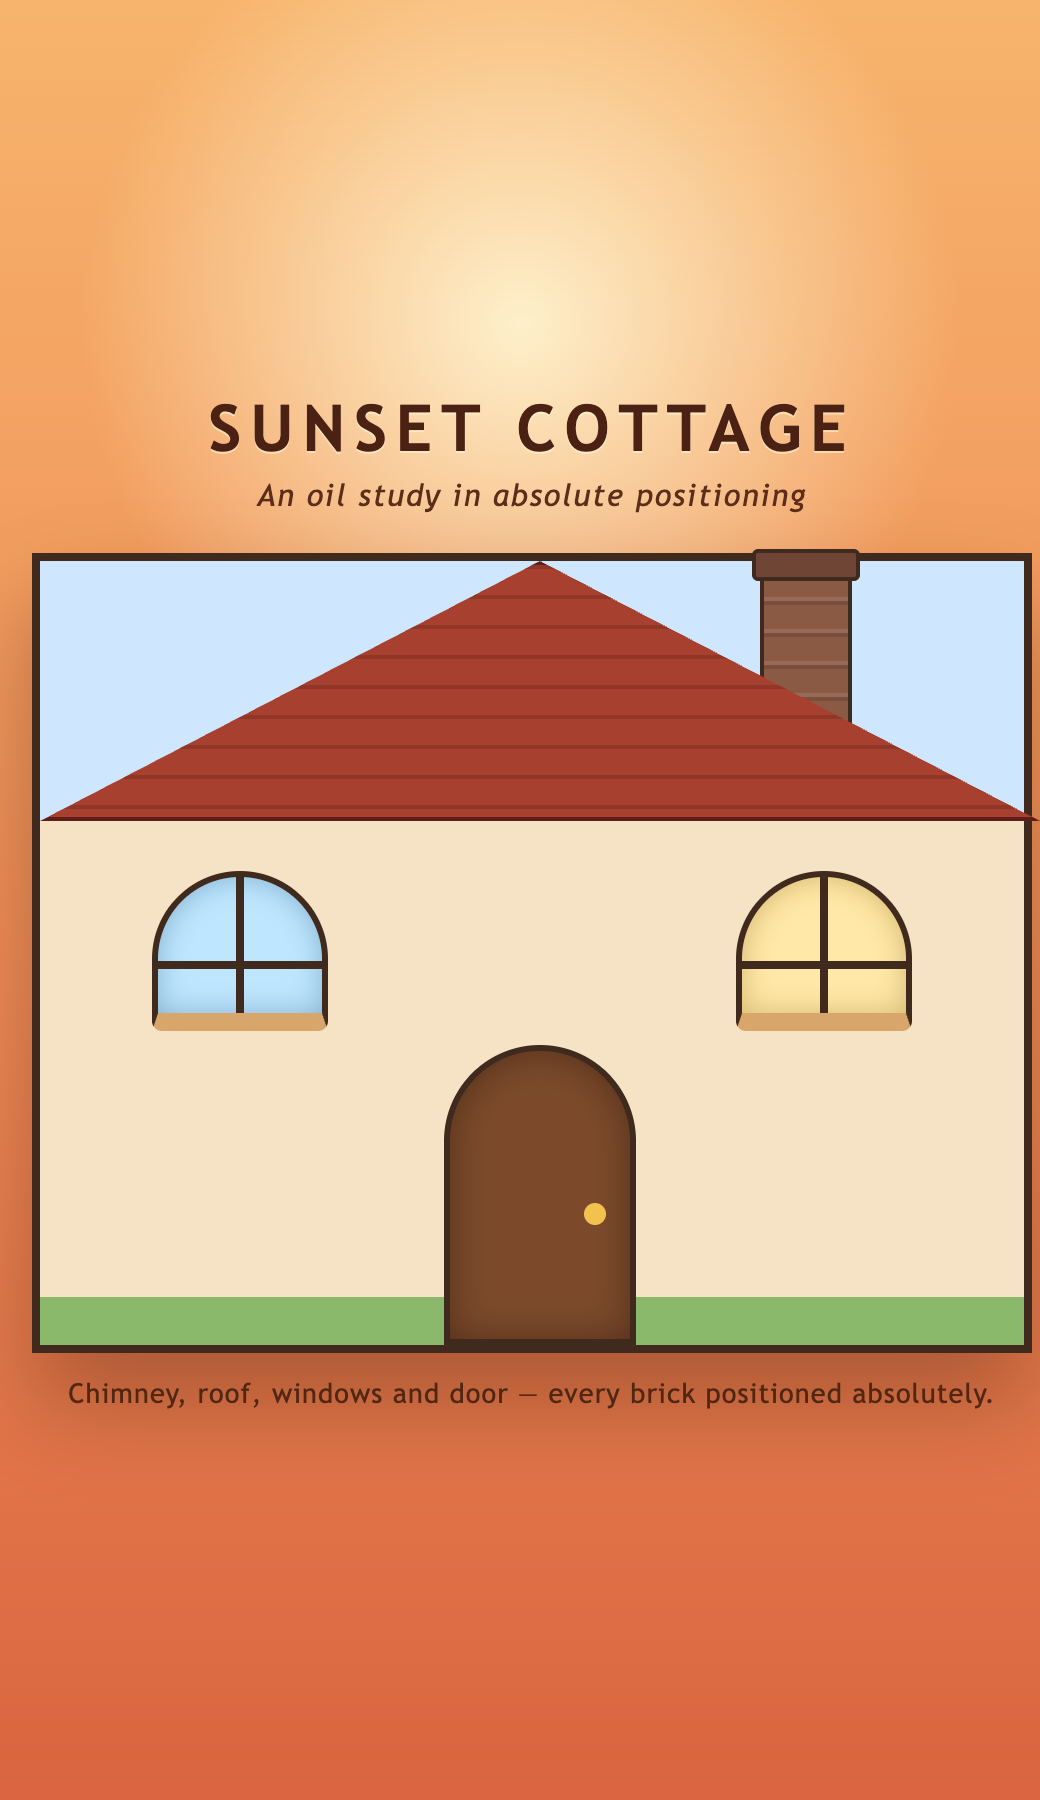
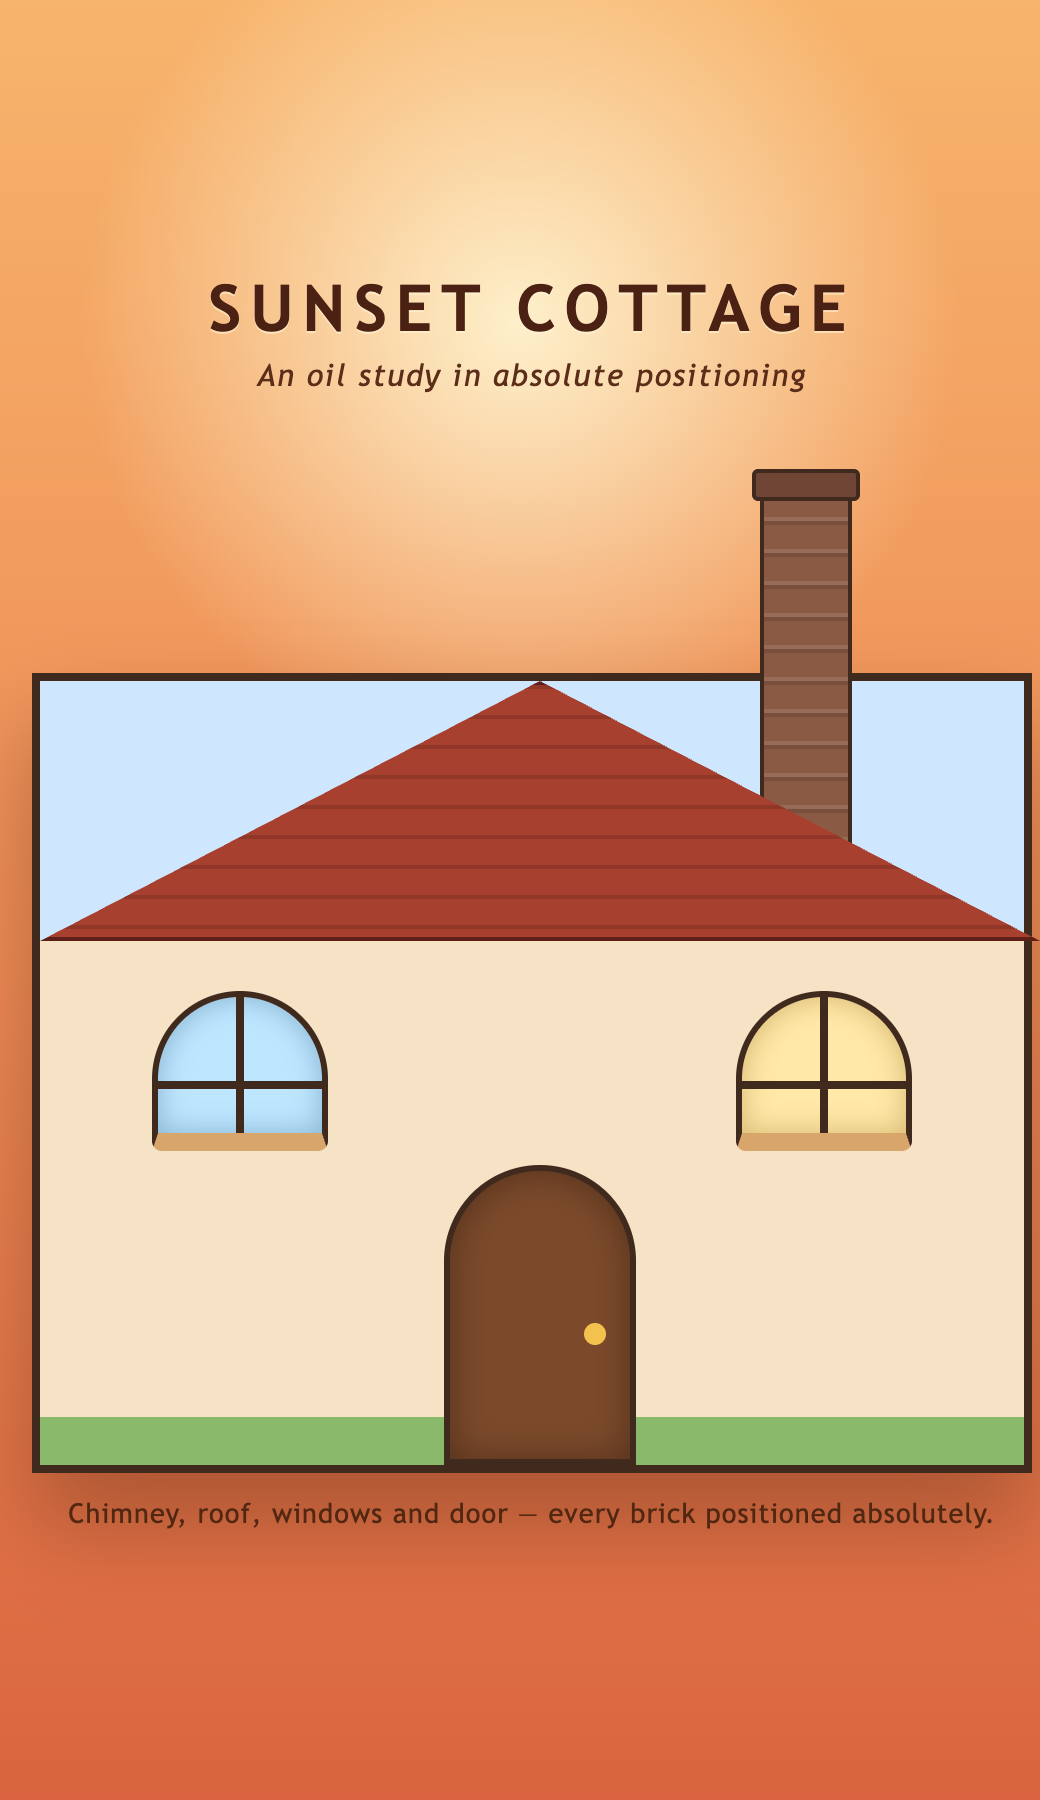
fix: task issues fixes of chimney and window borders

diff --git a/styles.css b/styles.css
@@ -4,7 +4,10 @@
    Layout contract (all numbers are px, measured inside the #house box):
      house ....... 500 x 400, border 4px  -> inner (padding) box 492 x 392
      roof ........ top 0, full width, 130 tall (gable clipped to a triangle)
-     chimney ..... top 0, on the right roof slope, z-index below the house
+     chimney ..... top -100, i.e. exactly -height (the lab pins top to -height),
+                   on the right roof slope, z-index below the house/roof; its
+                   shaft is continued downwards by ::after so it reads as
+                   passing behind the gable instead of floating above it
      windows ..... top 155 - 235, i.e. below the roof and above the door head
      door ........ bottom 0, 150 tall, 96 wide, centred
    ========================================================================== */
@@ -21,6 +24,9 @@ body {
     min-height: 100vh;
     display: flex;
     align-items: center;
+    /* the painting reserves room for the chimney above the house, so on short
+       screens fall back to start alignment instead of clipping the top */
+    align-items: safe center;
     justify-content: center;
     /* the house is a fixed 500px wide painting: on narrow screens fall back to
        start alignment so the overflow can be scrolled instead of clipped */
@@ -79,6 +85,9 @@ body {
     position: relative;
     width: 500px;
     height: 400px;
+    /* the chimney sits at top: -<its own height>, i.e. above the canvas, so
+       reserve that space here or it would paint over the title above */
+    margin-top: 120px;
     border: 4px solid #3f2a1d;
     background-color: #f6e3c5;
     background-image: linear-gradient(
@@ -93,22 +102,26 @@ body {
 }
 
 /* --------------------------------------------------------------------------
-   #chimney - tucked behind the house so only its cap clears the roof
+   #chimney - rises out of the right roof slope, z-index keeps it behind the
+   house/roof; top mirrors its own height because the lab asserts
+   top === -height, and ::after continues the shaft down behind the gable
    -------------------------------------------------------------------------- */
 #chimney {
-    position: absolute;
-    top: 0;
-    left: 360px;
-    width: 46px;
-    height: 120px;
-    border: 2px solid #3f2a1d;
-    background-color: #8a5a44;
-    background-image: repeating-linear-gradient(
+    /* declared once, inherited by ::after through the custom property */
+    --chimney-brick: repeating-linear-gradient(
             180deg,
             rgba(255, 255, 255, 0.10) 0, rgba(255, 255, 255, 0.10) 2px,
             rgba(0, 0, 0, 0.12) 2px, rgba(0, 0, 0, 0.12) 4px,
             rgba(0, 0, 0, 0) 4px, rgba(0, 0, 0, 0) 16px
     );
+    position: absolute;
+    top: -100px;
+    left: 360px;
+    width: 46px;
+    height: 100px;
+    border: 2px solid #3f2a1d;
+    background-color: #8a5a44;
+    background-image: var(--chimney-brick);
     z-index: -1;
 }
 
@@ -124,6 +137,25 @@ body {
     -moz-border-radius: 3px;
     border-radius: 3px;
     background-color: #6f4536;
+}
+
+/* the stack keeps going down behind the roof: the visible part ends where the
+   gable slope starts, and everything below is hidden by #roof (painted on top
+   of the negative z-index chimney) instead of showing a gap under the shaft */
+#chimney::after {
+    content: "";
+    position: absolute;
+    top: 100%;
+    right: -2px;
+    left: -2px;
+    height: 130px;
+    -webkit-box-sizing: border-box;
+    -moz-box-sizing: border-box;
+    box-sizing: border-box;
+    border: 2px solid #3f2a1d;
+    border-top: 0;
+    background-color: #8a5a44;
+    background-image: var(--chimney-brick);
 }
 
 /* --------------------------------------------------------------------------
@@ -149,13 +181,22 @@ body {
 /* --------------------------------------------------------------------------
    #window-1 / #window-2 - arched cottage windows below the roof line
    -------------------------------------------------------------------------- */
+
+/* The shared frame lives in its own grouped rule on purpose: the lab reads the
+   window `border` from `#window-1, #window-2`, and the per-window rules below
+   only restate the sill longhands (a shorthand there would be overridden by
+   them and serialise back to an empty `border`). */
+#window-1,
+#window-2 {
+    border: 3px solid #3f2a1d;
+}
+
 #window-1 {
     position: absolute;
     top: 155px;
     left: 56px;
     width: 88px;
     height: 80px;
-    border: 3px solid #3f2a1d;
     border-bottom-width: 9px;
     border-bottom-color: #d8a56a;
     background-color: #bfe6ff;
@@ -171,7 +212,6 @@ body {
     right: 56px;
     width: 88px;
     height: 80px;
-    border: 3px solid #3f2a1d;
     border-bottom-width: 9px;
     border-bottom-color: #d8a56a;
     background-color: #ffe8a8;

diff --git a/README.md b/README.md
@@ -20,7 +20,7 @@ children. Everything else on the page is decoration:
 
 ```
 #house
-├── #chimney     behind the roof, only its cap shows above the slope
+├── #chimney     lifted above the top edge (top mirrors its height), z-index: -1
 ├── #roof        full width gable, clipped into a triangle, top: 0
 ├── #window-1    arched window on the left
 ├── #window-2    arched window on the right
@@ -33,14 +33,14 @@ All values are px. `#house` is `500 × 400` with a `4px` border, so its **paddin
 box** — the box absolutely positioned children are laid out against — is
 `492 × 392`.
 
-| Element     | Position                                    | Size     |
-| ----------- | ------------------------------------------- | -------- |
-| `#house`    | `position: relative`                        | 500 × 400 |
-| `#roof`     | `top: 0`, `left: 0`                          | 500 × 130 |
-| `#chimney`  | `top: 0`, `left: 360px`, `z-index: -1`       | 46 × 120 |
-| `#window-1` | `top: 155px`, `left: 56px`                   | 88 × 80  |
-| `#window-2` | `top: 155px`, `right: 56px`                  | 88 × 80  |
-| `#door`     | `bottom: 0`, `left: 202px`                   | 96 × 150 |
+| Element     | Position                                         | Size      |
+| ----------- | ------------------------------------------------ | --------- |
+| `#house`    | `position: relative`                             | 500 × 400 |
+| `#roof`     | `top: 0`, `left: 0`                               | 500 × 130 |
+| `#chimney`  | `top: -100px`, `left: 360px`, `z-index: -1`       | 46 × 100  |
+| `#window-1` | `top: 155px`, `left: 56px`                        | 88 × 80   |
+| `#window-2` | `top: 155px`, `right: 56px`                       | 88 × 80   |
+| `#door`     | `bottom: 0`, `left: 202px`                        | 96 × 150  |
 
 Why these numbers satisfy the user stories:
 
@@ -49,8 +49,20 @@ Why these numbers satisfy the user stories:
 - `235 ≤ 392 − 150/3 = 342` keeps both windows higher than a third of the door;
 - `left: 360` + `width: 46` = `406 ≤ 492` and `left: 202` + `width: 96` = `298`,
   so the chimney and the door stay inside the house borders;
+- the lab pins the chimney to the top of the house with
+  `assert.approximately(top, -height, 2)`, so `top` is **exactly `-height`**
+  (`-100`). That lifts the whole chimney above the canvas, which is why
+  `#chimney::after` repeats the brick shaft downwards: the repeated part is
+  painted behind `#roof` and only shows until the gable slope cuts it off;
 - `z-index: -1` on `#chimney` pushes it behind the house and roof, which is why
-  the cap is drawn with `#chimney::before` at `top: -8px`.
+  the cap is drawn with `#chimney::before` at `top: -8px`;
+- `#house` carries a `120px` top margin so the overhanging chimney has room
+  instead of painting over the title.
+
+The window frame lives in a **grouped** rule, `#window-1, #window-2 { border: … }`,
+because the lab looks the `border` up on that combined selector; the per-window
+rules only add the sill longhands (`border-bottom-width` / `border-bottom-color`),
+which would otherwise collapse the shorthand's serialised value.
 
 `#house` deliberately declares **no** `min-*` or `max-*` properties: the lab asks
 for a plain `width` / `height` box.
@@ -72,7 +84,7 @@ into a box per element and validates the geometry against the padding box of
 `bottom: 0` from `#door` or moving the windows above the roof.
 
 ```
-49/49 assertions passed (house 500x400, inner 492x392, chimney 46x120)
+49/49 assertions passed (house 500x400, inner 492x392, chimney 46x100)
 ```
 
 ## Screenshots
@@ -83,4 +95,6 @@ into a box per element and validates the geometry against the padding box of
 
 The house keeps its fixed `500px` width, so on narrow screens the body uses
 `justify-content: safe center` (with a plain `center` fallback) to align to the
-start edge and let the painting be scrolled instead of clipped.
+start edge and let the painting be scrolled instead of clipped. `align-items: safe
+center` does the same vertically, which matters now that the chimney needs
+headroom above the canvas.
